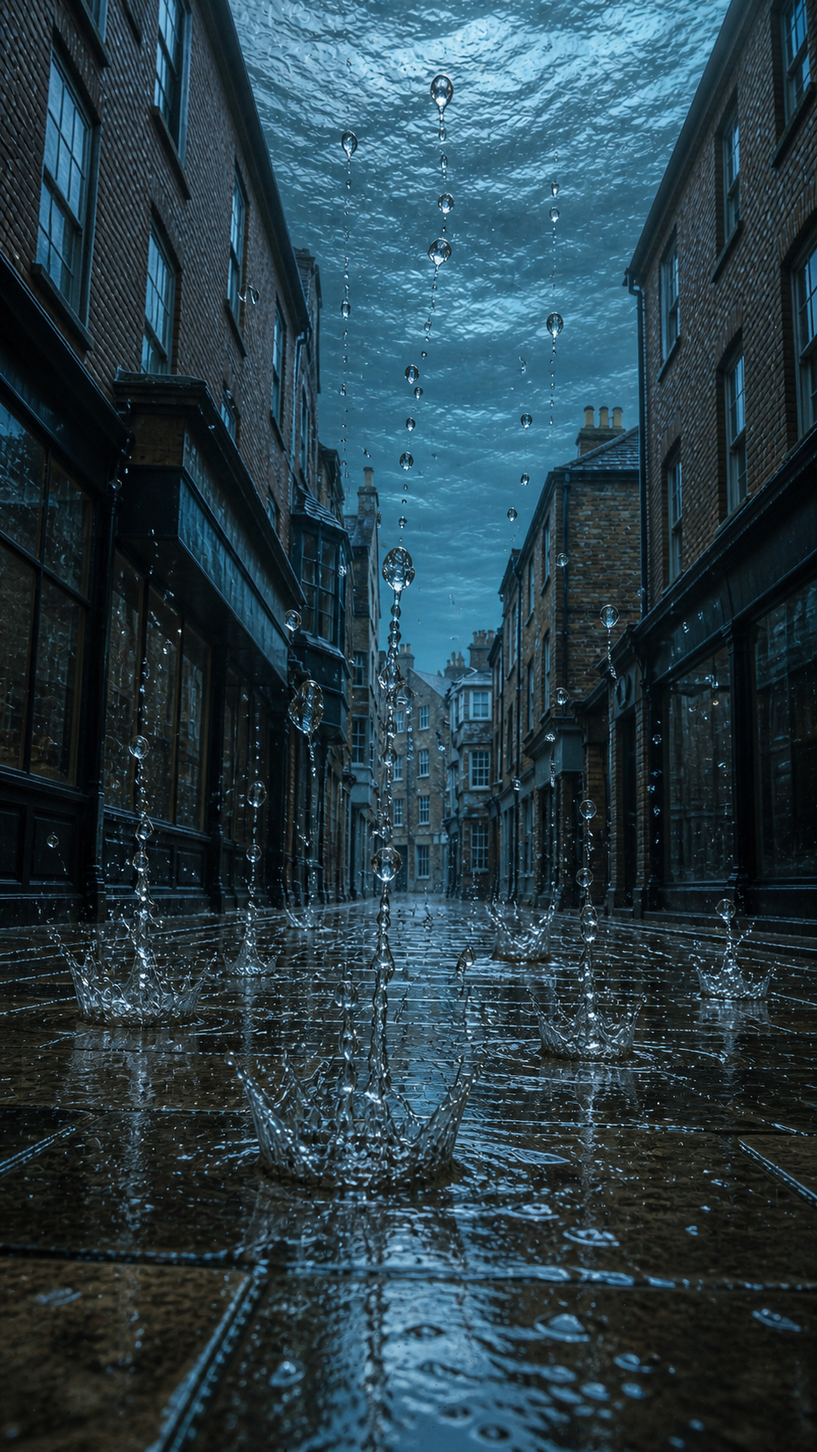
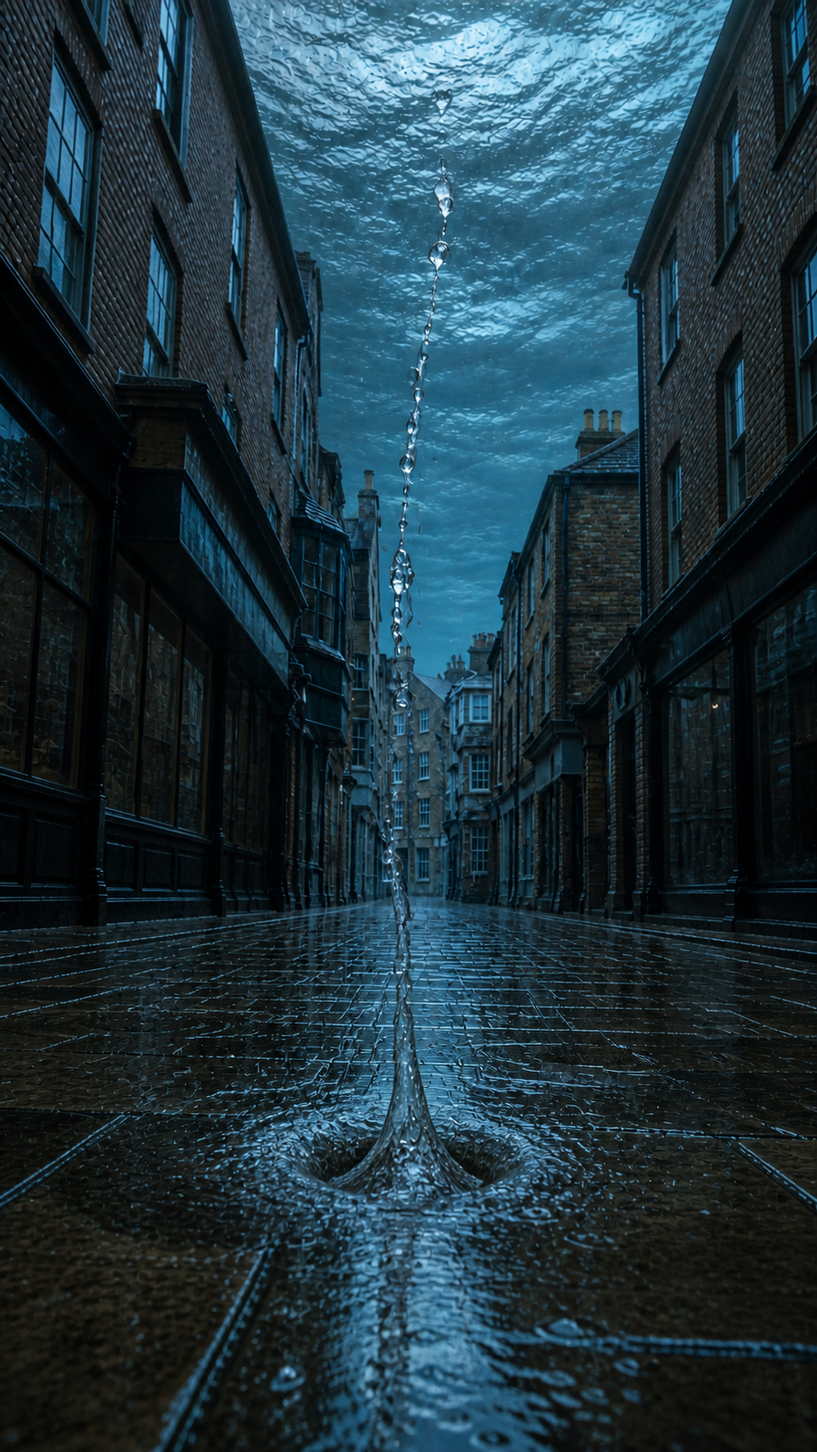
assets: repair Sea Above reverse-rain direction anchors

diff --git a/.superpowers/sdd/2026-08-20-the-sea-above-file-001-production/task-4-report.md b/.superpowers/sdd/2026-08-20-the-sea-above-file-001-production/task-4-report.md
@@ -2,7 +2,7 @@
 
 Date: 2026-08-21
 
-Status: ACCEPTED — six final PNG anchors copied to the workspace and visually inspected.
+Status: ACCEPTED — six final PNG anchors copied to the workspace and visually inspected; independent review repair round complete.
 
 ## Scope and execution
 
@@ -21,9 +21,9 @@ The current production contract and asset-pack manifest remain unchanged; Task 5
 | Asset | Generated source path | Workspace output path | SHA-256 | Visual decision |
 | --- | --- | --- | --- | --- |
 | world-anchor.png | C:\Users\11458\.codex\generated_images\01a0201d-8fe9-71e2-a2a4-aa242513e609\exec-f4fe0615-5268-42f3-96a5-4fd642770ae2.png | video-pipeline/asset-library/03-scene-kits/ENV_MR_SEA_ABOVE_OLD_CITY_001/source/world-anchor.png | 466654B43A560F8A8EBAD4D5E2CC266B9AB604C95246915D032EBB8B1085F2DA | ACCEPT |
-| reverse-rain-street.png | C:\Users\11458\.codex\generated_images\01a0201d-8fe9-71e2-a2a4-aa242513e609\exec-cd5d1561-7bb3-4750-93aa-1bac279e83e3.png | video-pipeline/asset-library/03-scene-kits/ENV_MR_SEA_ABOVE_OLD_CITY_001/source/reverse-rain-street.png | F909A71B464CE46CB47552DEA3F19104EBE3EEA8909CB9F075DB5E7902BF8D12 | ACCEPT |
-| sky-sea-upward.png | C:\Users\11458\.codex\generated_images\01a0201d-8fe9-71e2-a2a4-aa242513e609\exec-aed886f4-e5d4-48d1-bab0-013bd6dc70c7.png (repair output) | video-pipeline/asset-library/03-scene-kits/ENV_MR_SEA_ABOVE_OLD_CITY_001/source/sky-sea-upward.png | 2C491CB4DECC0E476E3B3E3D294295618F20C5B4884147C8C6CC60EE39D7CEEF | ACCEPT after single-variable stream-shape repair |
-| direction-lock.png | C:\Users\11458\.codex\generated_images\01a0201d-8fe9-71e2-a2a4-aa242513e609\exec-aed49367-3424-4887-adb8-8a7395fc0fff.png | video-pipeline/asset-library/08-fx/FX_MR_REVERSE_RAIN_001/source/direction-lock.png | 21C53058A42446AA9AED2BCFA9DBE0BB3813F2323C09E98D15A342BCA4A54634 | ACCEPT |
+| reverse-rain-street.png | C:\Users\11458\.codex\generated_images\01a0201d-8fe9-71e2-a2a4-aa242513e609\exec-b6cd12f8-da28-4fff-9d87-b50dd3d19727.png (independent review repair) | video-pipeline/asset-library/03-scene-kits/ENV_MR_SEA_ABOVE_OLD_CITY_001/source/reverse-rain-street.png | D40CF0217DCB547F86657873B5661412BE7B5B2FD8BF840CB4B18682E0F5E9E4 | ACCEPT after single-variable suction-stream repair |
+| sky-sea-upward.png | C:\Users\11458\.codex\generated_images\01a0201d-8fe9-71e2-a2a4-aa242513e609\exec-efa571b1-f1ac-4d95-9fb7-b36ac10b4c03.png (independent review repair) | video-pipeline/asset-library/03-scene-kits/ENV_MR_SEA_ABOVE_OLD_CITY_001/source/sky-sea-upward.png | 1B5B5672481D8695F2BE400BC4AD78E54FB8640CD137D4BF2A870DC736E59E22 | ACCEPT after lower-origin framing repair |
+| direction-lock.png | C:\Users\11458\.codex\generated_images\01a0201d-8fe9-71e2-a2a4-aa242513e609\exec-a95a7d86-0e55-422a-ba65-19bd4a7e50a3.png (independent review repair) | video-pipeline/asset-library/08-fx/FX_MR_REVERSE_RAIN_001/source/direction-lock.png | 6B24BC8AAA9873EC075BDEC3B6D5F3F1CF2C438B2114DD034D779BD4A29910AB | ACCEPT after single-variable suction-stream repair |
 | mother-shadow-lock.png | C:\Users\11458\.codex\generated_images\01a0201d-8fe9-71e2-a2a4-aa242513e609\exec-0f0a6f49-6ee1-4932-b78c-f77880f0e851.png | video-pipeline/asset-library/08-fx/FX_MR_SKY_SEA_MOTHER_001/source/mother-shadow-lock.png | F73D87A010296CF5BB284F93546944EAA1D36C4CFB947F7D8DB2A483A71C6825 | ACCEPT |
 | mother-eye-lock.png | C:\Users\11458\.codex\generated_images\01a0201d-8fe9-71e2-a2a4-aa242513e609\exec-256cc5a9-a6d4-4122-9efb-27498d8d6778.png (repair output) | video-pipeline/asset-library/08-fx/FX_MR_SKY_SEA_MOTHER_001/source/mother-eye-lock.png | 069AD46BA6EBCF1B40A33F4886913262B9B277E09D947802C60040BC246FCF56 | ACCEPT after single-variable crop/visibility repair |
 
@@ -31,7 +31,7 @@ All six final files are 941x1672 RGB PNGs (near 9:16, no alpha). They are refere
 
 ## Prompt provenance
 
-The following are the exact prompt bodies submitted to built-in image_gen. Input image paths are listed separately in each prompt section. Generated output paths above identify the corresponding source artifact.
+The following are the exact prompt bodies submitted to built-in image_gen. Input image paths are listed separately in each prompt section. Generated output paths above identify the corresponding source artifact. The first-round prompts and rejected outputs remain as provenance; current reverse-rain and upward-view outputs are superseded by the independent review repair round below.
 
 ### 1. world-anchor.png — accepted generation
 
@@ -186,15 +186,100 @@ QA decision: ACCEPTED. Only a partial pearl-textured iris/eyelid crescent remain
 | Asset | Geography continuity | Direction / scale | Mother partial gate | Text / brand gate | Decision |
 | --- | --- | --- | --- | --- | --- |
 | world-anchor.png | PASS: one narrow wet brick/limestone lane; overhead sea underside | PASS: far suspended ocean, natural light | N/A; no eye | PASS: no readable text or logos | ACCEPT |
-| reverse-rain-street.png | PASS: same street and sea height | PASS: puddle splash crowns and droplets leave ground upward | N/A | PASS | ACCEPT |
-| sky-sea-upward.png | PASS after repair: same walls, roofline, sea height and palette | PASS after repair: one irregular connected stream travels upward | N/A | PASS | ACCEPT |
-| direction-lock.png | PASS: same lane and overhead sea | PASS: splash crown plus ground-to-sky droplet path | N/A | PASS | ACCEPT |
+| reverse-rain-street.png | PASS after independent repair: same street and sea height | PASS: one foreground puddle pulls an irregular tapered stream upward; elongated droplets have tails; no impact crown | N/A | PASS | ACCEPT |
+| sky-sea-upward.png | PASS after independent repair: same walls, roofline, sea height and palette | PASS: pavement origin is in frame and one continuous stream reaches the overhead sea; no descending waterfall | N/A | PASS | ACCEPT |
+| direction-lock.png | PASS after independent repair: same lane and overhead sea | PASS: one suction origin, irregular stream, and sparse stretched droplets make ground-to-sky direction legible | N/A | PASS | ACCEPT |
 | mother-shadow-lock.png | PASS: same lane and sea underside | PASS: broad city-scale dimming shadow | PASS: shadow only, no anatomy | PASS | ACCEPT |
 | mother-eye-lock.png | PASS after repair: same lane and sea underside | PASS: eye fragment presses against water from above | PASS after repair: one cropped nacre crescent only | PASS | ACCEPT |
 
 ## Rejection criteria carried forward
 
-Reject downward rain; any ground-level ocean; conflicting streets, sea heights, light directions, or palettes; multiple suns; fantasy castles; recognizable IP; readable brands or generated text; protagonists in these environment/FX anchors; full Mother face/body; second eye; hands, teeth, tentacles, fins, wings, scales, or skin; magic beams; particle soup; bead/pearl-chain water; warm orange-teal grading; and any loss of the narrow British coastal old-city geography.
+Reject downward rain; ordinary downward-impact crowns; symmetric splash crowns; radial impact rings; disconnected floating streams; lower pavement origins cropped out of upward-view plates; waterfall-like water descending from the overhead sea; any ground-level ocean; conflicting streets, sea heights, light directions, or palettes; multiple suns; fantasy castles; recognizable IP; readable brands or generated text; protagonists in these environment/FX anchors; full Mother face/body; second eye; hands, teeth, tentacles, fins, wings, scales, or skin; magic beams; particle soup; bead/pearl-chain water; warm orange-teal grading; and any loss of the narrow British coastal old-city geography.
+
+## Independent review repair round — 2026-08-21
+
+Independent review held the first-round reverse-rain and upward-view plates for three visual failures: reverse direction was not unambiguous because of symmetric impact crowns and repeated spheres; the direction lock used a bead/pearl-chain read; and the upward-view lower pavement origin was out of frame. Only the three water/geography plates below were edited. World anchor and both Mother images were not touched.
+
+### A. reverse-rain-street.png — independent review repair
+
+Input image: edit target video-pipeline/asset-library/03-scene-kits/ENV_MR_SEA_ABOVE_OLD_CITY_001/source/reverse-rain-street.png, inspected with view_image before editing.
+
+Use case: precise-object-edit
+Asset type: repair of a reverse-rain street continuity anchor for a vertical dark-fantasy short film
+Input images: Image 1: edit target; preserve this exact narrow British coastal old-city street, red-brown brick facades, wet limestone paving, modest unbranded shopfront glass, far suspended ocean underside, cold storm-cyan palette, and diffuse natural light direction.
+Primary request: Change only the reverse-rain water behavior. Replace the many repeated spherical droplets and every symmetric splash crown with one dominant irregular liquid stream anchored visibly to one shallow foreground pavement puddle near the lower center. At the puddle origin, the water surface must be pulled inward and elongated upward by suction: a narrow tapered neck rises out of the puddle, with asymmetrical stretched filaments and a few uneven lobes peeling toward the sky. Above it, use only a small number of elongated droplets with tapered trailing tails below each droplet, clearly showing ground-to-sky travel. The stream must read as one continuous irregular pull from pavement toward the overhead ocean.
+Scene/backdrop: same single lane and buildings as Image 1; keep the ocean far overhead with its underside facing the city.
+Subject: reverse-rain water effect only; no person, protagonist, Mother eye, or creature.
+Style/medium: live-action photorealistic water VFX reference, physically plausible refraction, sharp wet stone and brick texture, restrained uncanny realism.
+Composition/framing: vertical 9:16 low 30mm street view; keep the street corridor readable, place one suction puddle in the lower foreground and one narrow irregular stream leading upward through the center; retain a visible far overhead ocean destination. No collage.
+Lighting/mood: same cold overcast daylight filtered through seawater, one consistent soft direction, quiet alarm.
+Color palette: wet limestone grey-white, weathered brick brown, storm cyan, deep ocean blue, low-saturation cold green, natural neutral reflections.
+Materials/textures: realistic puddle surface, inward-pulling suction deformation, tapered liquid neck, stretched droplets with tails below, sparse droplets only, wet glass and masonry, natural seawater caustics.
+Constraints: preserve all street geometry, shopfront placement, sea height, underside orientation, palette, light direction, and camera perspective except for the water effect. The upward direction must be unambiguous in a still.
+Avoid: ordinary downward rainfall, downward-impact crown, symmetric splash crown, radial impact ring, many separate streams, repeated perfect spheres, bead chain, pearl or necklace pattern, waterfall descending from the overhead ocean, water falling toward the pavement, ground-level ocean, multiple suns, fantasy castle, recognizable IP, beams, particle soup, text, logo, watermark.
+Output intent: final reverse-rain continuity reference with one readable ground-to-sky suction stream.
+
+Generated source: C:\Users\11458\.codex\generated_images\01a0201d-8fe9-71e2-a2a4-aa242513e609\exec-b6cd12f8-da28-4fff-9d87-b50dd3d19727.png
+
+Workspace output: video-pipeline/asset-library/03-scene-kits/ENV_MR_SEA_ABOVE_OLD_CITY_001/source/reverse-rain-street.png
+
+QA decision: ACCEPTED. One shallow foreground puddle visibly pulls inward into a tapered irregular stream; a few elongated droplets carry trailing tails below them; no ordinary impact crown, symmetric crown, bead chain, or top-down waterfall remains. Hash: D40CF0217DCB547F86657873B5661412BE7B5B2FD8BF840CB4B18682E0F5E9E4.
+
+Superseded first-round source/hash: C:\Users\11458\.codex\generated_images\01a0201d-8fe9-71e2-a2a4-aa242513e609\exec-cd5d1561-7bb3-4750-93aa-1bac279e83e3.png / F909A71B464CE46CB47552DEA3F19104EBE3EEA8909CB9F075DB5E7902BF8D12. Rejected in this review round for symmetric splash crowns, repeated spheres, and ambiguous still direction.
+
+### B. direction-lock.png — independent review repair
+
+Input images: Image 1: edit target video-pipeline/asset-library/08-fx/FX_MR_REVERSE_RAIN_001/source/direction-lock.png; Image 2: repaired reverse-rain-street.png continuity reference. Both were inspected with view_image before editing.
+
+Use case: precise-object-edit
+Asset type: repair of the reverse-rain FX direction lock for a vertical dark-fantasy short film
+Input images: Image 1: edit target; preserve its exact British coastal old-city street, wet limestone, red-brown brick, shopfront glass, overhead ocean underside, camera axis, cold storm-cyan palette, and diffuse light. Image 2: repaired reverse-rain-street continuity reference; use only its single ground-anchored suction-stream behavior and irregular liquid language.
+Primary request: Change only the water FX in Image 1. Replace the centered bead/pearl-chain and the ordinary symmetric splash crown with one clearly anchored irregular liquid stream rising from a single shallow pavement puddle in the lower foreground. The puddle origin must show upward suction deformation: the rim pulls inward and rises into an asymmetrical tapered neck, not an impact splash. The neck narrows into a slightly wavering liquid filament; add only three or four uneven elongated droplets along the path, each with a tapered trailing tail below it to indicate ground-to-sky travel. The stream must remain visibly connected to the puddle and point toward the far overhead sea, without water descending from the sea.
+Scene/backdrop: same lane and buildings as Image 1, same distant suspended ocean underside; no people or protagonist.
+Subject: one reverse-rain stream and puddle only.
+Style/medium: live-action photorealistic water VFX reference, crisp natural refraction and wet stone, restrained uncanny realism.
+Composition/framing: vertical 9:16 low street view; keep one central foreground puddle and its full ground-to-sea path readable; preserve the street corridor and ocean height; no collage.
+Lighting/mood: same cold natural daylight filtered through seawater, one consistent soft direction.
+Color palette: wet limestone grey-white, weathered brick brown, storm cyan, deep ocean blue, low-saturation cold green, natural reflections.
+Materials/textures: irregular liquid sheet and neck, elongated droplets with tails, sparse water only, wet paving, brick and glass, natural seawater caustics.
+Constraints: keep all architecture, camera perspective, sea height, underside orientation, palette, and light direction unchanged. Make upward direction unambiguous in a still.
+Avoid: ordinary downward-impact crown, symmetric splash crown, radial impact ring, many separate streams, repeated perfect spheres, bead chain, pearl or necklace pattern, waterfall descending from overhead sea, downward rainfall, water falling to pavement, ground-level ocean, multiple suns, fantasy castle, recognizable IP, beams, particle soup, text, logo, watermark.
+Output intent: clean FX direction lock whose ground origin and upward travel can be read instantly.
+
+Generated source: C:\Users\11458\.codex\generated_images\01a0201d-8fe9-71e2-a2a4-aa242513e609\exec-a95a7d86-0e55-422a-ba65-19bd4a7e50a3.png
+
+Workspace output: video-pipeline/asset-library/08-fx/FX_MR_REVERSE_RAIN_001/source/direction-lock.png
+
+QA decision: ACCEPTED. The still now has one suction origin and a sparse central path of elongated droplets with tails; the old symmetric impact crown and bead-chain pattern are gone. Hash: 6B24BC8AAA9873EC075BDEC3B6D5F3F1CF2C438B2114DD034D779BD4A29910AB.
+
+Superseded first-round source/hash: C:\Users\11458\.codex\generated_images\01a0201d-8fe9-71e2-a2a4-aa242513e609\exec-aed49367-3424-4887-adb8-8a7395fc0fff.png / 21C53058A42446AA9AED2BCFA9DBE0BB3813F2323C09E98D15A342BCA4A54634. Rejected in this review round for symmetric impact crown and repeated bead/pearl-chain spheres.
+
+### C. sky-sea-upward.png — independent review framing repair
+
+Input images: Image 1: edit target video-pipeline/asset-library/03-scene-kits/ENV_MR_SEA_ABOVE_OLD_CITY_001/source/sky-sea-upward.png; Image 2: repaired reverse-rain-street.png continuity reference. Both were inspected with view_image before editing.
+
+Use case: precise-object-edit
+Asset type: repair of the upward sky-sea geography anchor for a vertical dark-fantasy short film
+Input images: Image 1: edit target; preserve its exact British coastal old-city wall geometry, roofline, overhead ocean underside, storm-cyan palette, wet materials, and diffuse daylight direction. Image 2: repaired reverse-rain street continuity reference; use only its ground-anchored suction origin and irregular liquid behavior as a continuity guide.
+Primary request: Change only the vertical composition and lower-origin visibility. Pull the camera slightly wider and lower so the frame includes a clear strip of wet limestone pavement at the bottom and one shallow foreground puddle at the lower center. The existing central water path must visibly begin in that puddle with inward suction deformation and a tapered irregular stream, then continue without a break through the middle of the street toward the distant suspended ocean underside. Keep the full ocean underside destination visible in the upper half. The path must read as ground-to-sea in one still.
+Scene/backdrop: the same single narrow British coastal old-city street from Image 1, with recognizable brick walls and roofline side anchors; no landmarks, people, or signage.
+Subject: one connected reverse-rain stream from a pavement puddle to the overhead ocean; no protagonist, Mother eye, or creature.
+Style/medium: live-action photorealistic location/VFX reference, realistic wet limestone, brick, glass, seawater texture, and physically plausible liquid refraction.
+Composition/framing: vertical 9:16 wide 28mm upward street view; bottom 15–20 percent includes pavement and the suction puddle; the stream is centered and continuous; upper half still shows the far underside-facing ocean; no crop that removes either origin or destination.
+Lighting/mood: same cold daylight filtered through seawater, one consistent soft direction, restrained awe and alarm.
+Color palette: wet limestone grey-white, weathered brick brown, storm cyan, deep ocean blue, low-saturation cold green, natural reflections.
+Materials/textures: shallow puddle with inward pulled rim, tapered connected liquid neck, sparse stretched droplets with tails below, wet brick and glass, natural underwater caustics.
+Constraints: preserve street geography, sea height, underside orientation, palette, light direction, and all non-water architecture. Make the entire ground-to-sea direction legible. No generated text or logo.
+Avoid: lower origin out of frame, disconnected floating stream, ordinary downward-impact crown, symmetric splash crown, radial impact ring, repeated perfect spheres, bead chain, pearl or necklace pattern, waterfall descending from overhead sea, downward rain, ground-level ocean, multiple suns, fantasy castle, recognizable IP, beams, particle soup, text, watermark.
+Output intent: final upward-view geography plate with both pavement origin and overhead sea destination visible.
+
+Generated source: C:\Users\11458\.codex\generated_images\01a0201d-8fe9-71e2-a2a4-aa242513e609\exec-efa571b1-f1ac-4d95-9fb7-b36ac10b4c03.png
+
+Workspace output: video-pipeline/asset-library/03-scene-kits/ENV_MR_SEA_ABOVE_OLD_CITY_001/source/sky-sea-upward.png
+
+QA decision: ACCEPTED. Wet pavement and the suction puddle are now visible at the bottom, and one continuous irregular stream reaches the overhead sea; no disconnected floating path, symmetric crown, bead chain, or descending waterfall remains. Hash: 1B5B5672481D8695F2BE400BC4AD78E54FB8640CD137D4BF2A870DC736E59E22.
+
+Superseded first-round source/hash: C:\Users\11458\.codex\generated_images\01a0201d-8fe9-71e2-a2a4-aa242513e609\exec-aed886f4-e5d4-48d1-bab0-013bd6dc70c7.png / 2C491CB4DECC0E476E3B3E3D294295618F20C5B4884147C8C6CC60EE39D7CEEF. Rejected in this review round because the lower pavement origin was out of frame.
 
 ## Verification commands
 
@@ -216,6 +301,16 @@ Visual inspection:
 
     view_image was run on each final workspace PNG after copy. The six final outputs passed the subject, composition, texture, continuity, and avoid-list checks recorded above.
 
+Independent-review visual inspection:
+
+    view_image was run on reverse-rain-street.png, direction-lock.png, and sky-sea-upward.png after the repair outputs were copied. Each now shows a visible pavement suction origin, an irregular ground-to-sky liquid path, and no ordinary downward-impact crown or descending overhead waterfall.
+
+Current repair hash check:
+
+    reverse-rain-street.png  D40CF0217DCB547F86657873B5661412BE7B5B2FD8BF840CB4B18682E0F5E9E4
+    direction-lock.png       6B24BC8AAA9873EC075BDEC3B6D5F3F1CF2C438B2114DD034D779BD4A29910AB
+    sky-sea-upward.png       1B5B5672481D8695F2BE400BC4AD78E54FB8640CD137D4BF2A870DC736E59E22
+
 Validator results (expected red state while later Task 5/6 outputs are absent):
 
     & 'video-pipeline/asset-library/scripts/validate-sea-above-file001.ps1' -Mode anchors
@@ -229,5 +324,5 @@ These failures are dependency-gate failures after the contract and anchor paths 
 ## Concerns for parent review
 
 - The generated reference plates are 941x1672 (near 9:16), not 2160x3840; they are intended as image-to-video/reference anchors and should be upscaled or used as references in later production, not treated as final 4K deliverables.
-- The direction-lock and repaired sky-sea-upward include sparse round droplets as physically plausible water; they are not intended to read as jewelry, but later motion prompts should explicitly preserve irregular liquid behavior.
+- The repaired water plates intentionally use sparse elongated droplets with tapered tails and irregular liquid necks; later motion prompts should preserve this ground-to-sky suction behavior and avoid adding symmetric impact crowns or bead chains.
 - The shadow and eye plates are intentionally darker than the world anchor so the Mother scale reads through light loss; later shots must keep exposure changes restrained and avoid a black-frame jump.

diff --git a/video-pipeline/asset-library/03-scene-kits/ENV_MR_SEA_ABOVE_OLD_CITY_001/README.md b/video-pipeline/asset-library/03-scene-kits/ENV_MR_SEA_ABOVE_OLD_CITY_001/README.md
@@ -7,8 +7,8 @@ Reusable geography anchors for FILE 001 — THE PEARL THAT ANSWERED.
 | File | Role | Dimensions | SHA-256 |
 | --- | --- | --- | --- |
 | source/world-anchor.png | Street and suspended-ocean geography anchor; no Mother eye | 941x1672 PNG, RGB | 466654B43A560F8A8EBAD4D5E2CC266B9AB604C95246915D032EBB8B1085F2DA |
-| source/reverse-rain-street.png | Low 30mm street view; puddles and droplets rise toward the sea | 941x1672 PNG, RGB | F909A71B464CE46CB47552DEA3F19104EBE3EEA8909CB9F075DB5E7902BF8D12 |
-| source/sky-sea-upward.png | Upward view following one rising water column into the sea underside | 941x1672 PNG, RGB | 2C491CB4DECC0E476E3B3E3D294295618F20C5B4884147C8C6CC60EE39D7CEEF |
+| source/reverse-rain-street.png | Low 30mm street view; one puddle pulls an irregular stream upward toward the sea | 941x1672 PNG, RGB | D40CF0217DCB547F86657873B5661412BE7B5B2FD8BF840CB4B18682E0F5E9E4 |
+| source/sky-sea-upward.png | Upward view with pavement origin and one continuous water path into the sea underside | 941x1672 PNG, RGB | 1B5B5672481D8695F2BE400BC4AD78E54FB8640CD137D4BF2A870DC736E59E22 |
 
 ## Continuity locks
 
@@ -17,11 +17,52 @@ Reusable geography anchors for FILE 001 — THE PEARL THAT ANSWERED.
 - The ocean is distant and suspended overhead, with its underside facing the city; natural daylight filters through the water.
 - Storm-cyan/deep-ocean palette, cold neutral reflections, and one consistent diffuse light direction.
 - Reverse-rain water travels from pavement toward the overhead sea. No downward rainfall is used as a visual rule.
-- The repaired upward view uses an irregular continuous water stream rather than a bead or pearl chain.
+- The repaired street and upward views use one irregular suction stream with sparse elongated droplets and tapered tails, never a bead or pearl chain.
 
 ## Provenance
 
 All three images were generated with the built-in image_gen tool. Exact prompts, generated source paths, rejected variants, repair rationale, and visual QA are recorded in .superpowers/sdd/2026-08-20-the-sea-above-file-001-production/task-4-report.md. No CLI, API, network video tool, Seedance, paid generation, text, logo, or protagonist was used.
+
+## Independent review repair round
+
+The first-round reverse-rain and sky-sea outputs were held after review because the water read as repeated spheres/symmetric impact splashes and the upward view cropped out its pavement origin. The following one-variable built-in image_gen edits are the current accepted outputs:
+
+- reverse-rain-street.png source: C:\Users\11458\.codex\generated_images\01a0201d-8fe9-71e2-a2a4-aa242513e609\exec-b6cd12f8-da28-4fff-9d87-b50dd3d19727.png
+- sky-sea-upward.png source: C:\Users\11458\.codex\generated_images\01a0201d-8fe9-71e2-a2a4-aa242513e609\exec-efa571b1-f1ac-4d95-9fb7-b36ac10b4c03.png
+
+Exact repair prompt — reverse-rain-street.png:
+
+Use case: precise-object-edit
+Asset type: repair of a reverse-rain street continuity anchor for a vertical dark-fantasy short film
+Input images: Image 1: edit target; preserve this exact narrow British coastal old-city street, red-brown brick facades, wet limestone paving, modest unbranded shopfront glass, far suspended ocean underside, cold storm-cyan palette, and diffuse natural light direction.
+Primary request: Change only the reverse-rain water behavior. Replace the many repeated spherical droplets and every symmetric splash crown with one dominant irregular liquid stream anchored visibly to one shallow foreground pavement puddle near the lower center. At the puddle origin, the water surface must be pulled inward and elongated upward by suction: a narrow tapered neck rises out of the puddle, with asymmetrical stretched filaments and a few uneven lobes peeling toward the sky. Above it, use only a small number of elongated droplets with tapered trailing tails below each droplet, clearly showing ground-to-sky travel. The stream must read as one continuous irregular pull from pavement toward the overhead ocean.
+Scene/backdrop: same single lane and buildings as Image 1; keep the ocean far overhead with its underside facing the city.
+Subject: reverse-rain water effect only; no person, protagonist, Mother eye, or creature.
+Style/medium: live-action photorealistic water VFX reference, physically plausible refraction, sharp wet stone and brick texture, restrained uncanny realism.
+Composition/framing: vertical 9:16 low 30mm street view; keep the street corridor readable, place one suction puddle in the lower foreground and one narrow irregular stream leading upward through the center; retain a visible far overhead ocean destination. No collage.
+Lighting/mood: same cold overcast daylight filtered through seawater, one consistent soft direction, quiet alarm.
+Color palette: wet limestone grey-white, weathered brick brown, storm cyan, deep ocean blue, low-saturation cold green, natural neutral reflections.
+Materials/textures: realistic puddle surface, inward-pulling suction deformation, tapered liquid neck, stretched droplets with tails below, sparse droplets only, wet glass and masonry, natural seawater caustics.
+Constraints: preserve all street geometry, shopfront placement, sea height, underside orientation, palette, light direction, and camera perspective except for the water effect. The upward direction must be unambiguous in a still.
+Avoid: ordinary downward rainfall, downward-impact crown, symmetric splash crown, radial impact ring, many separate streams, repeated perfect spheres, bead chain, pearl or necklace pattern, waterfall descending from the overhead ocean, water falling toward the pavement, ground-level ocean, multiple suns, fantasy castle, recognizable IP, beams, particle soup, text, logo, watermark.
+Output intent: final reverse-rain continuity reference with one readable ground-to-sky suction stream.
+
+Exact repair prompt — sky-sea-upward.png:
+
+Use case: precise-object-edit
+Asset type: repair of the upward sky-sea geography anchor for a vertical dark-fantasy short film
+Input images: Image 1: edit target; preserve its exact British coastal old-city wall geometry, roofline, overhead ocean underside, storm-cyan palette, wet materials, and diffuse daylight direction. Image 2: repaired reverse-rain street continuity reference; use only its ground-anchored suction origin and irregular liquid behavior as a continuity guide.
+Primary request: Change only the vertical composition and lower-origin visibility. Pull the camera slightly wider and lower so the frame includes a clear strip of wet limestone pavement at the bottom and one shallow foreground puddle at the lower center. The existing central water path must visibly begin in that puddle with inward suction deformation and a tapered irregular stream, then continue without a break through the middle of the street toward the distant suspended ocean underside. Keep the full ocean underside destination visible in the upper half. The path must read as ground-to-sea in one still.
+Scene/backdrop: the same single narrow British coastal old-city street from Image 1, with recognizable brick walls and roofline side anchors; no landmarks, people, or signage.
+Subject: one connected reverse-rain stream from a pavement puddle to the overhead ocean; no protagonist, Mother eye, or creature.
+Style/medium: live-action photorealistic location/VFX reference, realistic wet limestone, brick, glass, seawater texture, and physically plausible liquid refraction.
+Composition/framing: vertical 9:16 wide 28mm upward street view; bottom 15–20 percent includes pavement and the suction puddle; the stream is centered and continuous; upper half still shows the far underside-facing ocean; no crop that removes either origin or destination.
+Lighting/mood: same cold daylight filtered through seawater, one consistent soft direction, restrained awe and alarm.
+Color palette: wet limestone grey-white, weathered brick brown, storm cyan, deep ocean blue, low-saturation cold green, natural reflections.
+Materials/textures: shallow puddle with inward pulled rim, tapered connected liquid neck, sparse stretched droplets with tails below, wet brick and glass, natural underwater caustics.
+Constraints: preserve street geography, sea height, underside orientation, palette, light direction, and all non-water architecture. Make the entire ground-to-sea direction legible. No generated text or logo.
+Avoid: lower origin out of frame, disconnected floating stream, ordinary downward-impact crown, symmetric splash crown, radial impact ring, repeated perfect spheres, bead chain, pearl or necklace pattern, waterfall descending from overhead sea, downward rain, ground-level ocean, multiple suns, fantasy castle, recognizable IP, beams, particle soup, text, watermark.
+Output intent: final upward-view geography plate with both pavement origin and overhead sea destination visible.
 
 ## Rejection gates
 

diff --git a/video-pipeline/asset-library/08-fx/FX_MR_REVERSE_RAIN_001/README.md b/video-pipeline/asset-library/08-fx/FX_MR_REVERSE_RAIN_001/README.md
@@ -6,18 +6,41 @@ Reusable reverse-rain direction lock for FILE 001 — THE PEARL THAT ANSWERED.
 
 | File | Role | Dimensions | SHA-256 |
 | --- | --- | --- | --- |
-| source/direction-lock.png | Splash crown, rising droplet/column, and overhead sea destination | 941x1672 PNG, RGB | 21C53058A42446AA9AED2BCFA9DBE0BB3813F2323C09E98D15A342BCA4A54634 |
+| source/direction-lock.png | One pavement-anchored suction stream, elongated droplets, and overhead sea destination | 941x1672 PNG, RGB | 6B24BC8AAA9873EC075BDEC3B6D5F3F1CF2C438B2114DD034D779BD4A29910AB |
 
 ## FX locks
 
-- A foreground splash crown opens upward from a wet limestone puddle.
-- A central droplet chain/column visibly travels away from the ground toward the far suspended ocean; it is water, not jewelry.
+- A single foreground puddle visibly pulls inward and elongates into one irregular tapered stream.
+- Only a few stretched droplets with trailing tails sit above the stream, clearly indicating ground-to-sky travel; there is no impact crown or bead chain.
 - The same narrow brick-and-shopfront geography, sea height, underside orientation, palette, and light direction as ENV_MR_SEA_ABOVE_OLD_CITY_001.
 - No protagonist, Mother eye, creature anatomy, generated text, logo, beam, or particle cloud.
 
 ## Provenance
 
 Generated with the built-in image_gen tool using the accepted reverse-rain street and repaired sky-sea-upward images as references. Exact prompt, generated source path, visual inspection, and rejection criteria are recorded in .superpowers/sdd/2026-08-20-the-sea-above-file-001-production/task-4-report.md. No CLI, API, network video tool, Seedance, or paid generation was used.
+
+## Independent review repair round
+
+The first direction-lock was held because its symmetric impact crown and repeated spheres could read as ordinary falling rain or a bead chain. The current accepted edit source is:
+
+C:\Users\11458\.codex\generated_images\01a0201d-8fe9-71e2-a2a4-aa242513e609\exec-a95a7d86-0e55-422a-ba65-19bd4a7e50a3.png
+
+Exact repair prompt:
+
+Use case: precise-object-edit
+Asset type: repair of the reverse-rain FX direction lock for a vertical dark-fantasy short film
+Input images: Image 1: edit target; preserve its exact British coastal old-city street, wet limestone, red-brown brick, shopfront glass, overhead ocean underside, camera axis, cold storm-cyan palette, and diffuse light. Image 2: repaired reverse-rain-street continuity reference; use only its single ground-anchored suction-stream behavior and irregular liquid language.
+Primary request: Change only the water FX in Image 1. Replace the centered bead/pearl-chain and the ordinary symmetric splash crown with one clearly anchored irregular liquid stream rising from a single shallow pavement puddle in the lower foreground. The puddle origin must show upward suction deformation: the rim pulls inward and rises into an asymmetrical tapered neck, not an impact splash. The neck narrows into a slightly wavering liquid filament; add only three or four uneven elongated droplets along the path, each with a tapered trailing tail below it to indicate ground-to-sky travel. The stream must remain visibly connected to the puddle and point toward the far overhead sea, without water descending from the sea.
+Scene/backdrop: same lane and buildings as Image 1, same distant suspended ocean underside; no people or protagonist.
+Subject: one reverse-rain stream and puddle only.
+Style/medium: live-action photorealistic water VFX reference, crisp natural refraction and wet stone, restrained uncanny realism.
+Composition/framing: vertical 9:16 low street view; keep one central foreground puddle and its full ground-to-sea path readable; preserve the street corridor and ocean height; no collage.
+Lighting/mood: same cold natural daylight filtered through seawater, one consistent soft direction.
+Color palette: wet limestone grey-white, weathered brick brown, storm cyan, deep ocean blue, low-saturation cold green, natural reflections.
+Materials/textures: irregular liquid sheet and neck, elongated droplets with tails, sparse water only, wet paving, brick and glass, natural seawater caustics.
+Constraints: keep all architecture, camera perspective, sea height, underside orientation, palette, and light direction unchanged. Make upward direction unambiguous in a still.
+Avoid: ordinary downward-impact crown, symmetric splash crown, radial impact ring, many separate streams, repeated perfect spheres, bead chain, pearl or necklace pattern, waterfall descending from overhead sea, downward rainfall, water falling to pavement, ground-level ocean, multiple suns, fantasy castle, recognizable IP, beams, particle soup, text, logo, watermark.
+Output intent: clean FX direction lock whose ground origin and upward travel can be read instantly.
 
 ## Rejection gates
 
